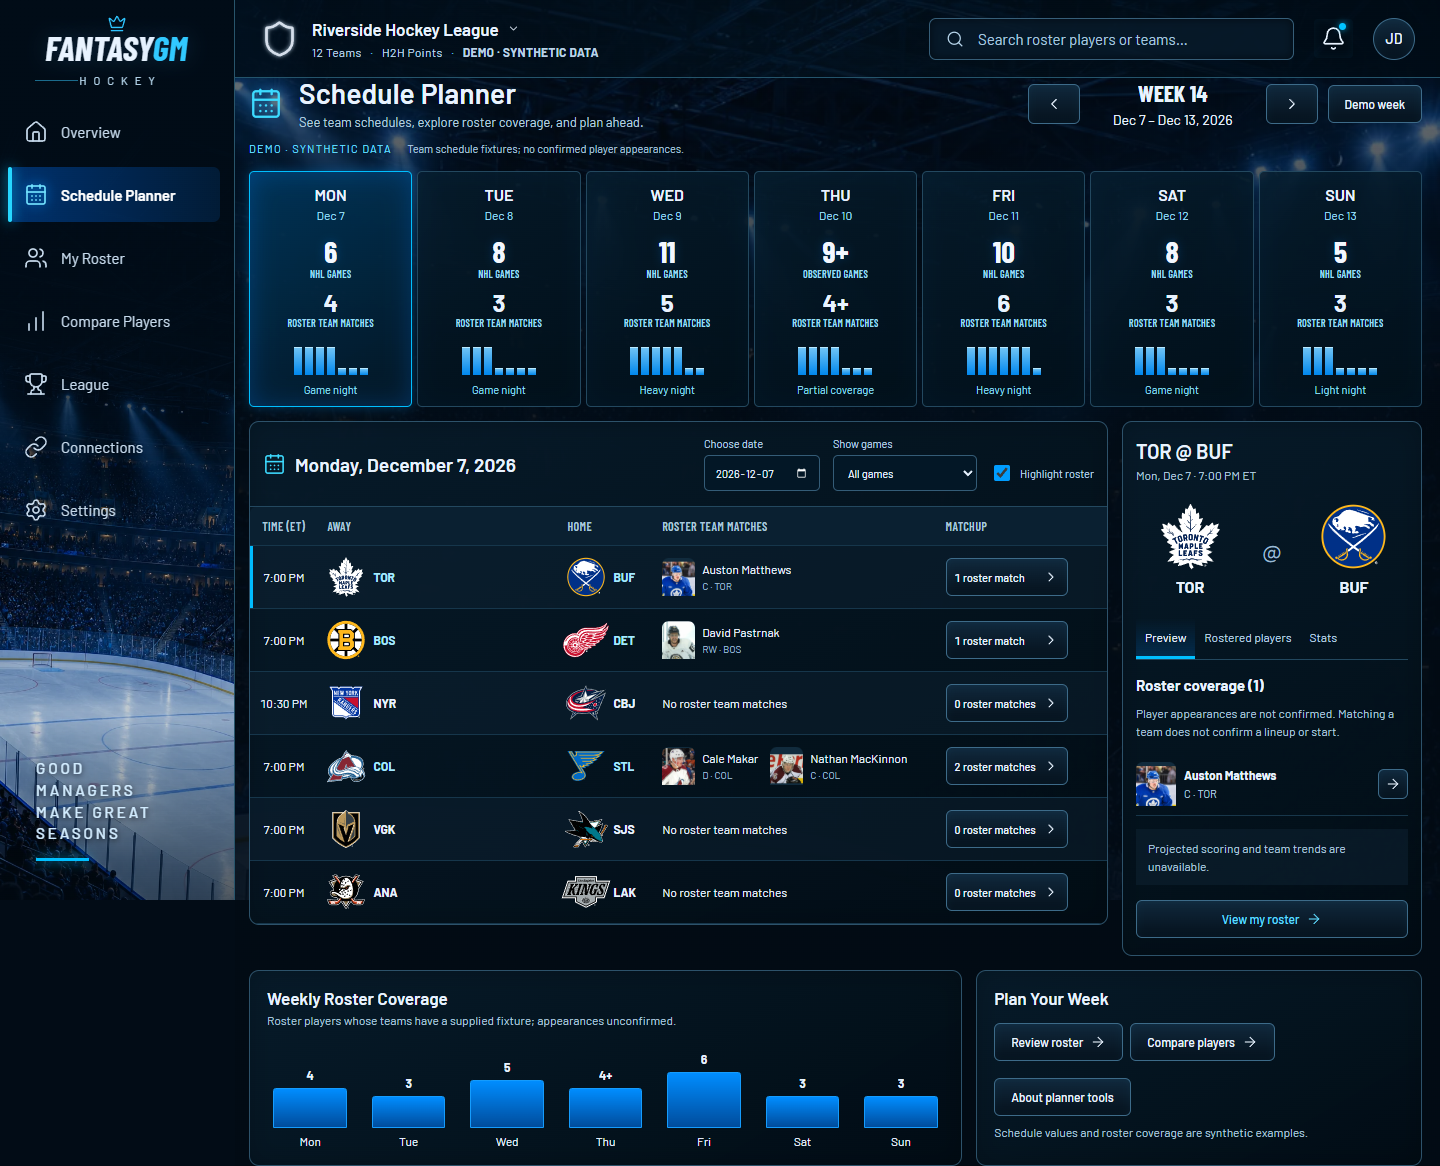
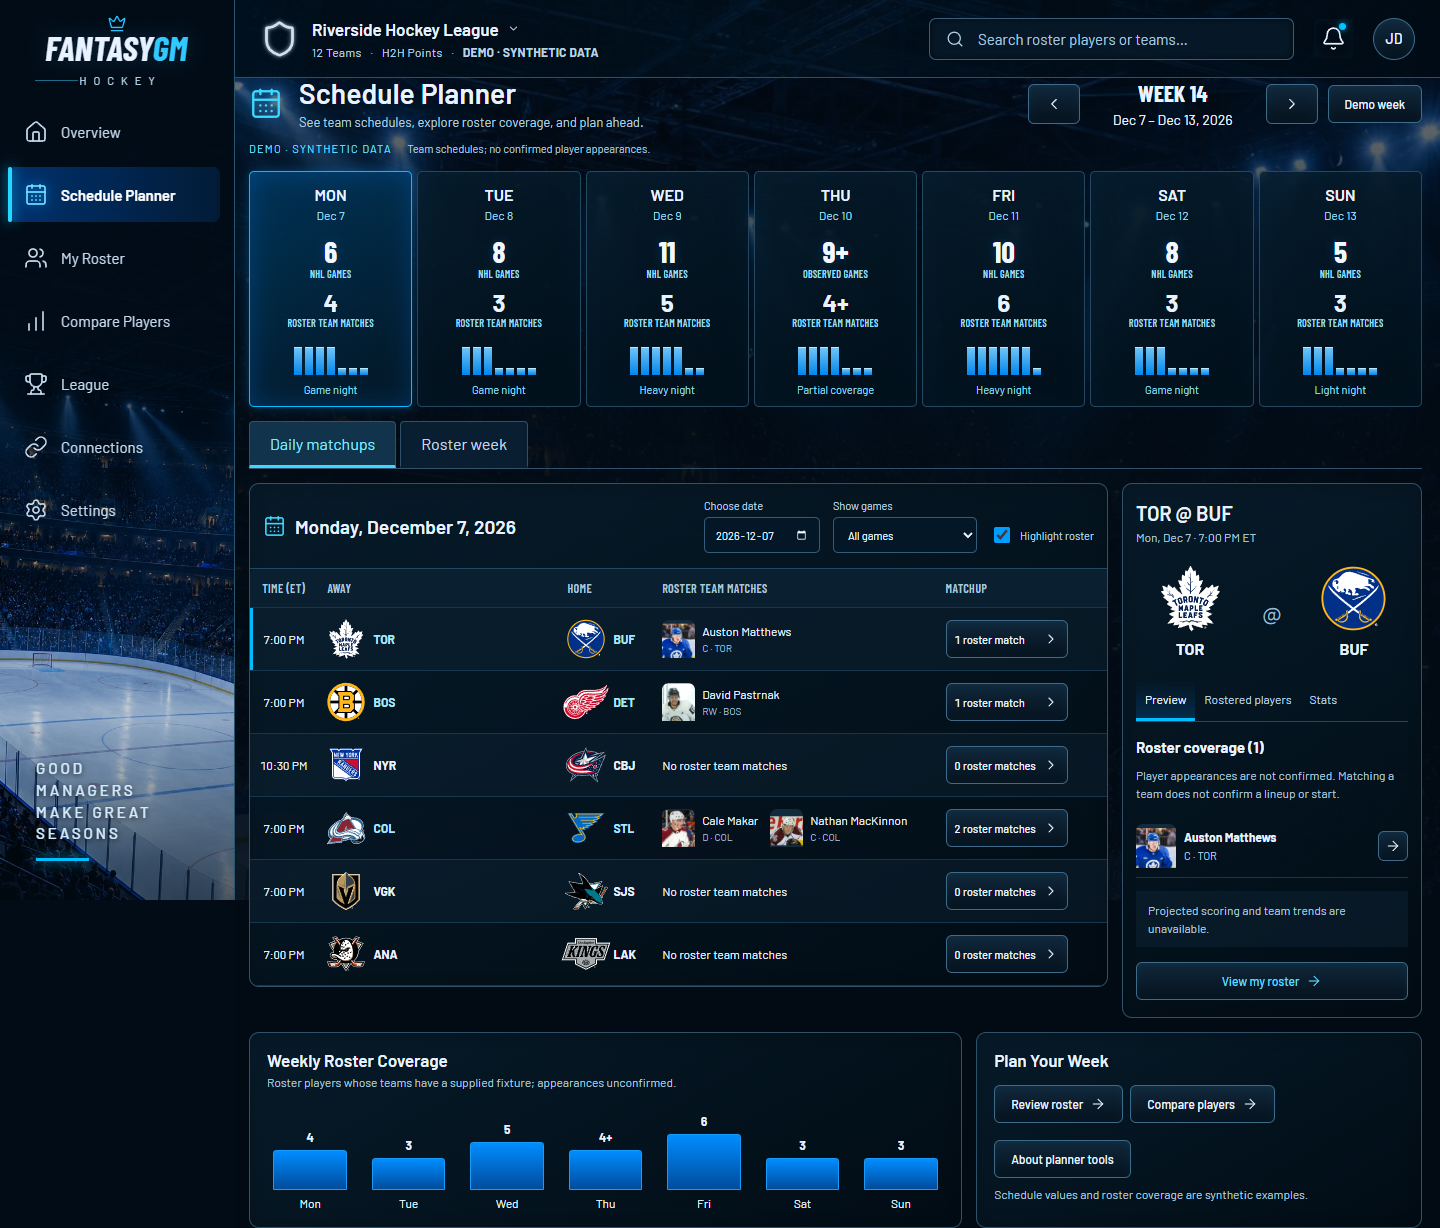
test(planner): review weekly view navigation baselines

diff --git a/docs/ci-quality-gates.md b/docs/ci-quality-gates.md
@@ -76,6 +76,16 @@ in the new recorded environment. Do not automatically replace approved images or
 relax the tolerance to make CI pass. Rendering drift requires review of the
 environment or any proposed baseline update; retain the failing evidence.
 
+The weekly roster matrix adds Daily matchups / Roster week navigation. Its four
+Planner baselines were inspected at desktop, laptop, tablet and mobile sizes,
+including the comparison diffs, before replacement. The intentional navigation
+row shifts existing content down 62 pixels. The other 28 images and the 0.005
+comparison tolerance remain unchanged. Review environment: Windows 10.0.26200,
+Chrome 155.0.8059.80, Node 22.15.0, Playwright 1.64.1 and bundled fonts 5.3.0.
+Separate fabricated-observation captures exercise the matrix; browser assertions
+also bound its sticky player column and verify mobile fixture exposure after
+scrolling, since page-overflow and accessibility checks alone missed that defect.
+
 ## Advisory dependency audits
 
 Linux Python exports all locked dependency groups excluding the local project,
